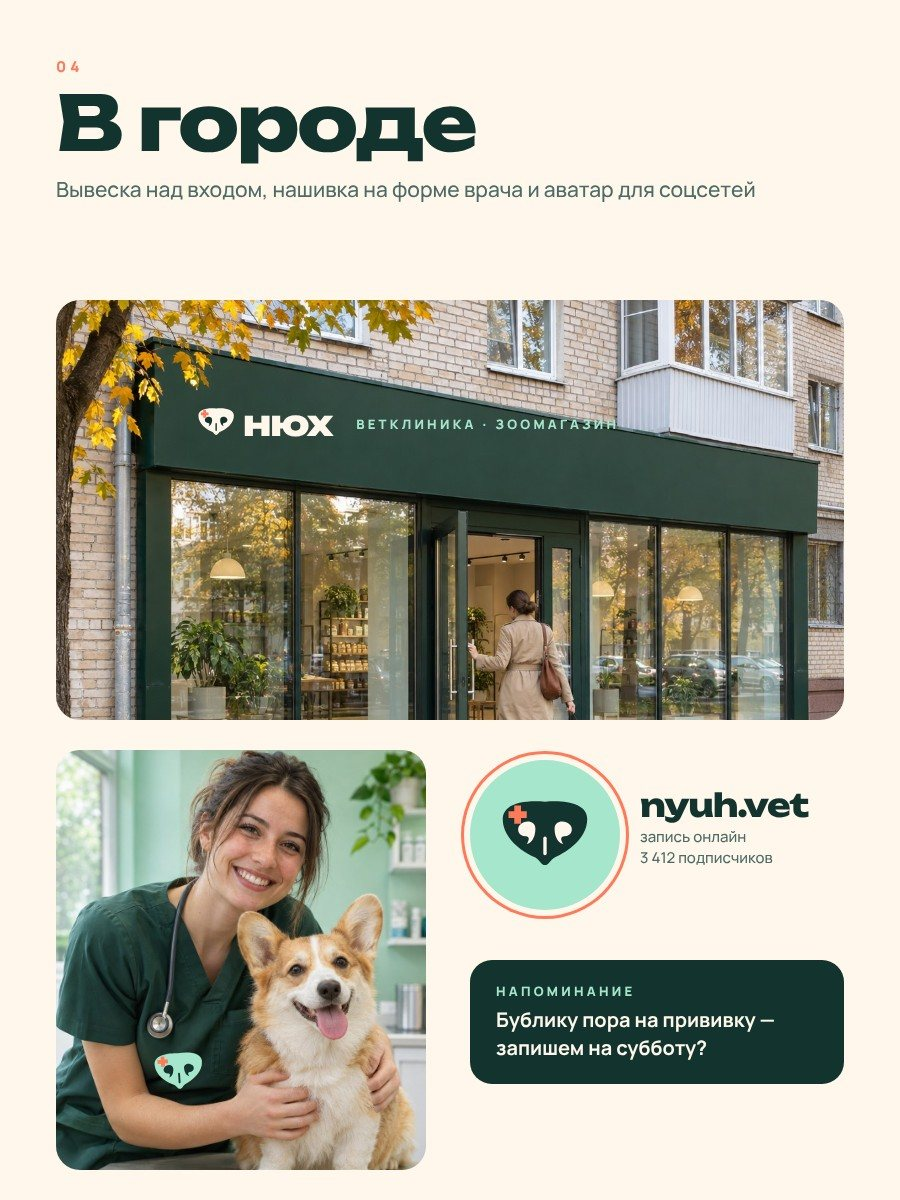
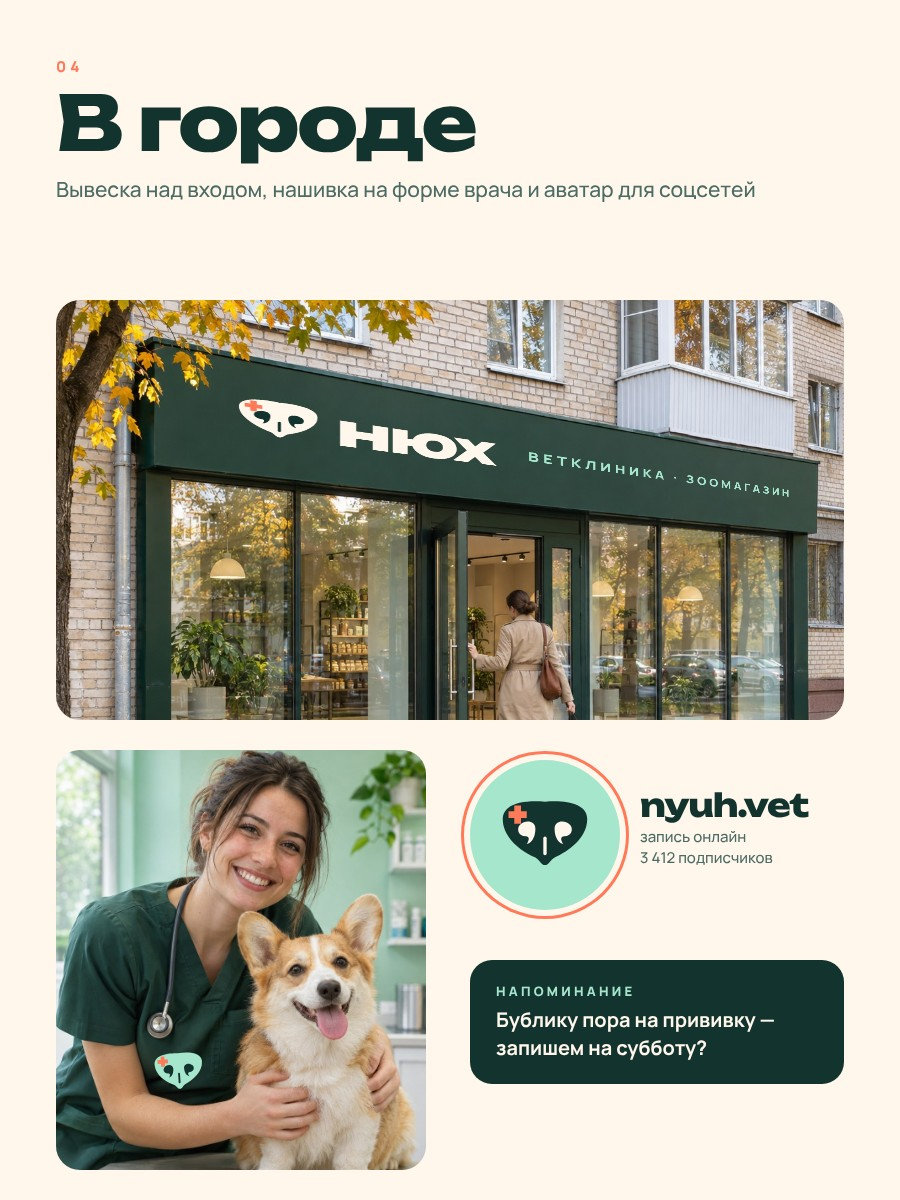
Нюх: вывеска в перспективе фасада
Claude-Session: https://claude.ai/code/session_01JAJVm4pdAHYewPjCi6B84w

Changed region(s): [[0.2178, 0.3083, 0.56, 0.4008], [0.56, 0.3392, 0.6844, 0.4008], [0.6844, 0.37, 0.7156, 0.4008]]

diff --git a/index.html b/index.html
@@ -347,7 +347,7 @@ html.rm .man .w{opacity:1}
  </article>
 </div>
 <button class="zoom" id="zoom" aria-label="Закрыть увеличение"><img alt=""></button>
-<script src="data.js?v=95848086"></script>
+<script src="data.js?v=1795848481"></script>
 <script src="v2/vendor/gsap.min.js"></script>
 <script src="v2/vendor/ScrollTrigger.min.js"></script>
 <script src="v2/vendor/lenis.min.js"></script>

diff --git a/data.js b/data.js
@@ -2714,7 +2714,7 @@ window.WORKS=[
    },
    {
     "t": "img",
-    "src": "works/brand/nyuh/05.jpg"
+    "src": "works/brand/nyuh/05.jpg?v=1795848481"
    }
   ]
  },
